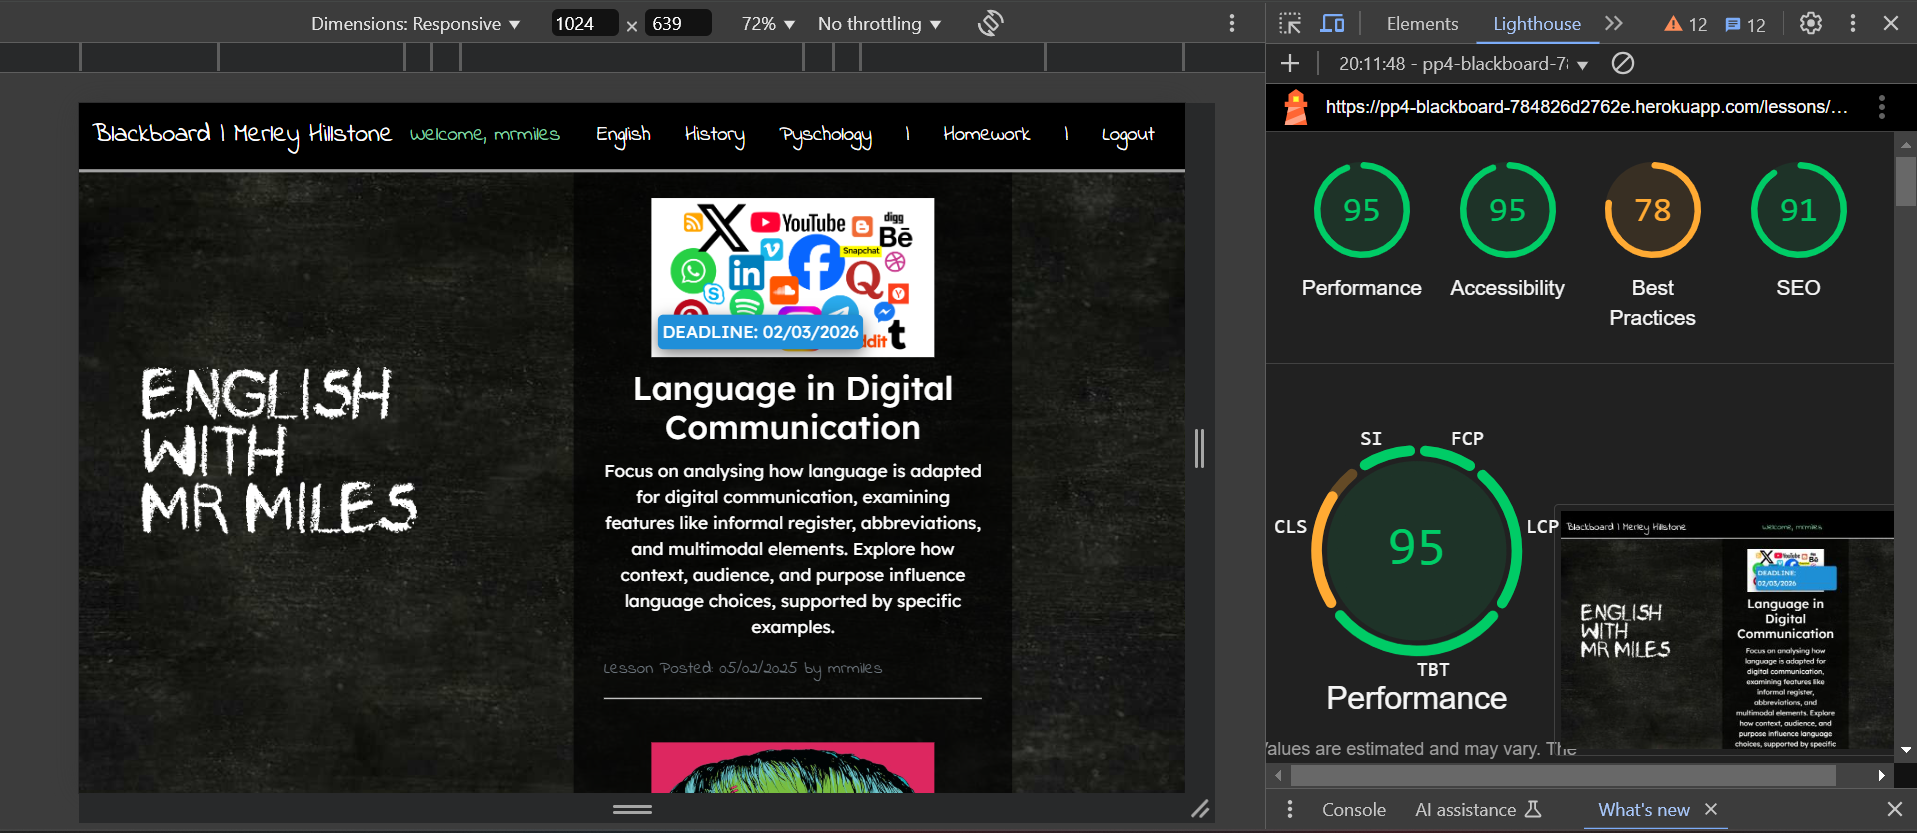
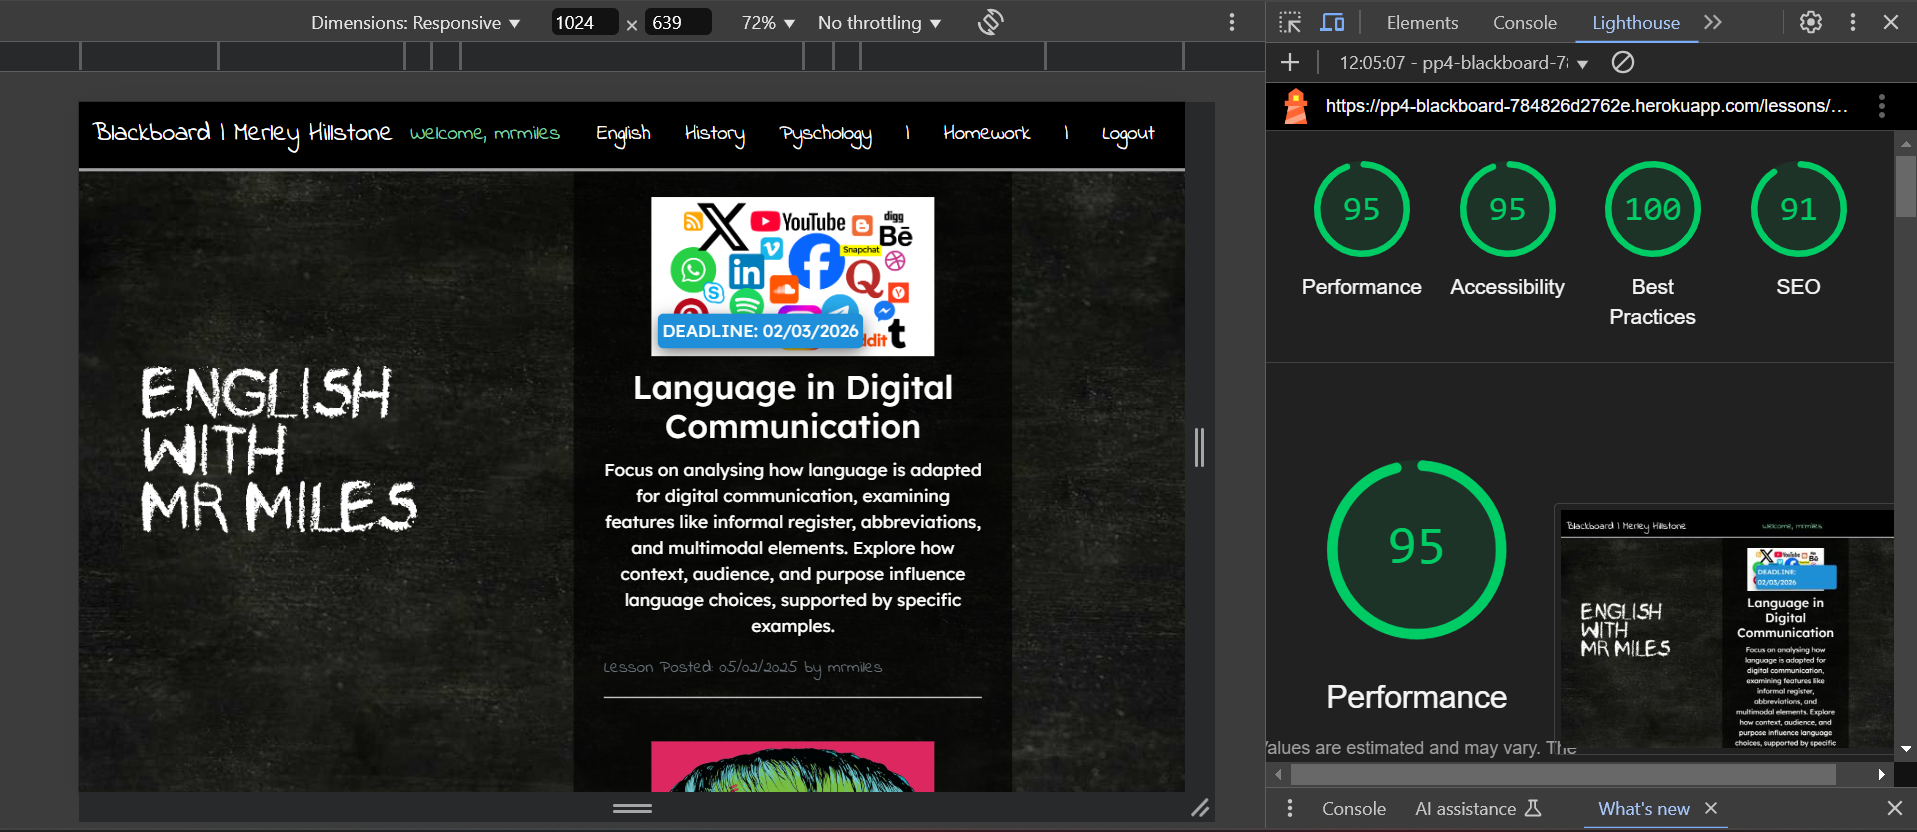
Update hrefs for SEO

diff --git a/lessons/templates/lessons/lesson_detail.html b/lessons/templates/lessons/lesson_detail.html
@@ -138,7 +138,7 @@
           <button type="button" class="btn btn-secondary" data-bs-dismiss="modal">
             Close
           </button>
-          <a id="deleteConfirm" href="#" class="btn btn-danger">Delete</a>
+          <a id="deleteConfirm" href="javascript:void(0)" class="btn btn-danger">Delete</a>
         </div>
       </div>
     </div>
@@ -161,7 +161,7 @@
         <button type="button" class="btn btn-secondary" data-bs-dismiss="modal">
           Close
         </button>
-        <a id="reportConfirm" href="#" class="btn btn-danger">Report</a>
+        <a id="reportConfirm" href="javascript:void(0)" class="btn btn-danger">Report</a>
       </div>
     </div>
   </div>

diff --git a/_readme-docs/testing/testing.md b/_readme-docs/testing/testing.md
@@ -168,6 +168,10 @@ Lesson Feed (Psychology):
 
 ![Screenshot of Lighthouse Report for Lesson Feed (Psychology)](/_readme-docs/images/lighthouse_psych.png)
 
+Lesson Detail:
+
+![Screenshot of Lighthouse Report for Lesson Detail](/_readme-docs/images/lighthouse_lesson-detail.png)
+
 Homework Dashboard:
 
 ![Screenshot of Lighthouse Report for Homework Dashboard](/_readme-docs/images/lighthouse_homework-dashboard.png)
@@ -190,14 +194,16 @@ Register:
 </details>
 <br>
 
-As per the above screenshots, 'Lesson Feed (English)' and 'Lesson Feed (History)' each scored 78 on Best Practices. This is due to 
-
-| **Page** | **Performance** | **Accessibility**| **Best Practices** | **SEO** | **Overall Score** |
-| --- | --- | --- | --- | --- | --- |
-| Homepage | 0 | 0 | 0 | 0 | 0 |
-| Lesson Feed (Eng) | 0 | 0 | 0 | 0 | 0 |
-| Lesson Feed (Hist) | 0 | 0 | 0 | 0 | 0 |
-| Lesson Feed (Psych) | 0 | 0 | 0 | 0 | 0 |
-| Lesson Detail | 0 | 0 | 0 | 0 | 0 |
-| Homework Dashboard | 0 | 0 | 0 | 0 | 0 |
-| Homework Submission | 0 | 0 | 0 | 0 | 0 |
+| **Page** | **Performance** | **Accessibility**| **Best Practices** | **SEO** |
+| --- | --- | --- | --- | --- |
+| Homepage (Authorised) | 98 | 98 | 100 | 90 |
+| Homepage (Unauthorised) | 98 | 98 | 100 | 90 |
+| Lesson Feed (Eng) | 95 | 95 | 100 | 91 |
+| Lesson Feed (Hist) | 95 | 95 | 100 | 91 |
+| Lesson Feed (Psych) | 100 | 100 | 100 | 91 |
+| Lesson Detail | 100 | 91 | 100 | 82 |
+| Homework Dashboard | 98 | 98 | 100 | 90 |
+| Homework Submission | 99 | 90 | 100 | 90 |
+| Login | 98 | 95 | 100 | 90 |
+| Logout | 98 | 94 | 100 | 90 |
+| Account Registration | 98 | 95 | 100 | 90 |
